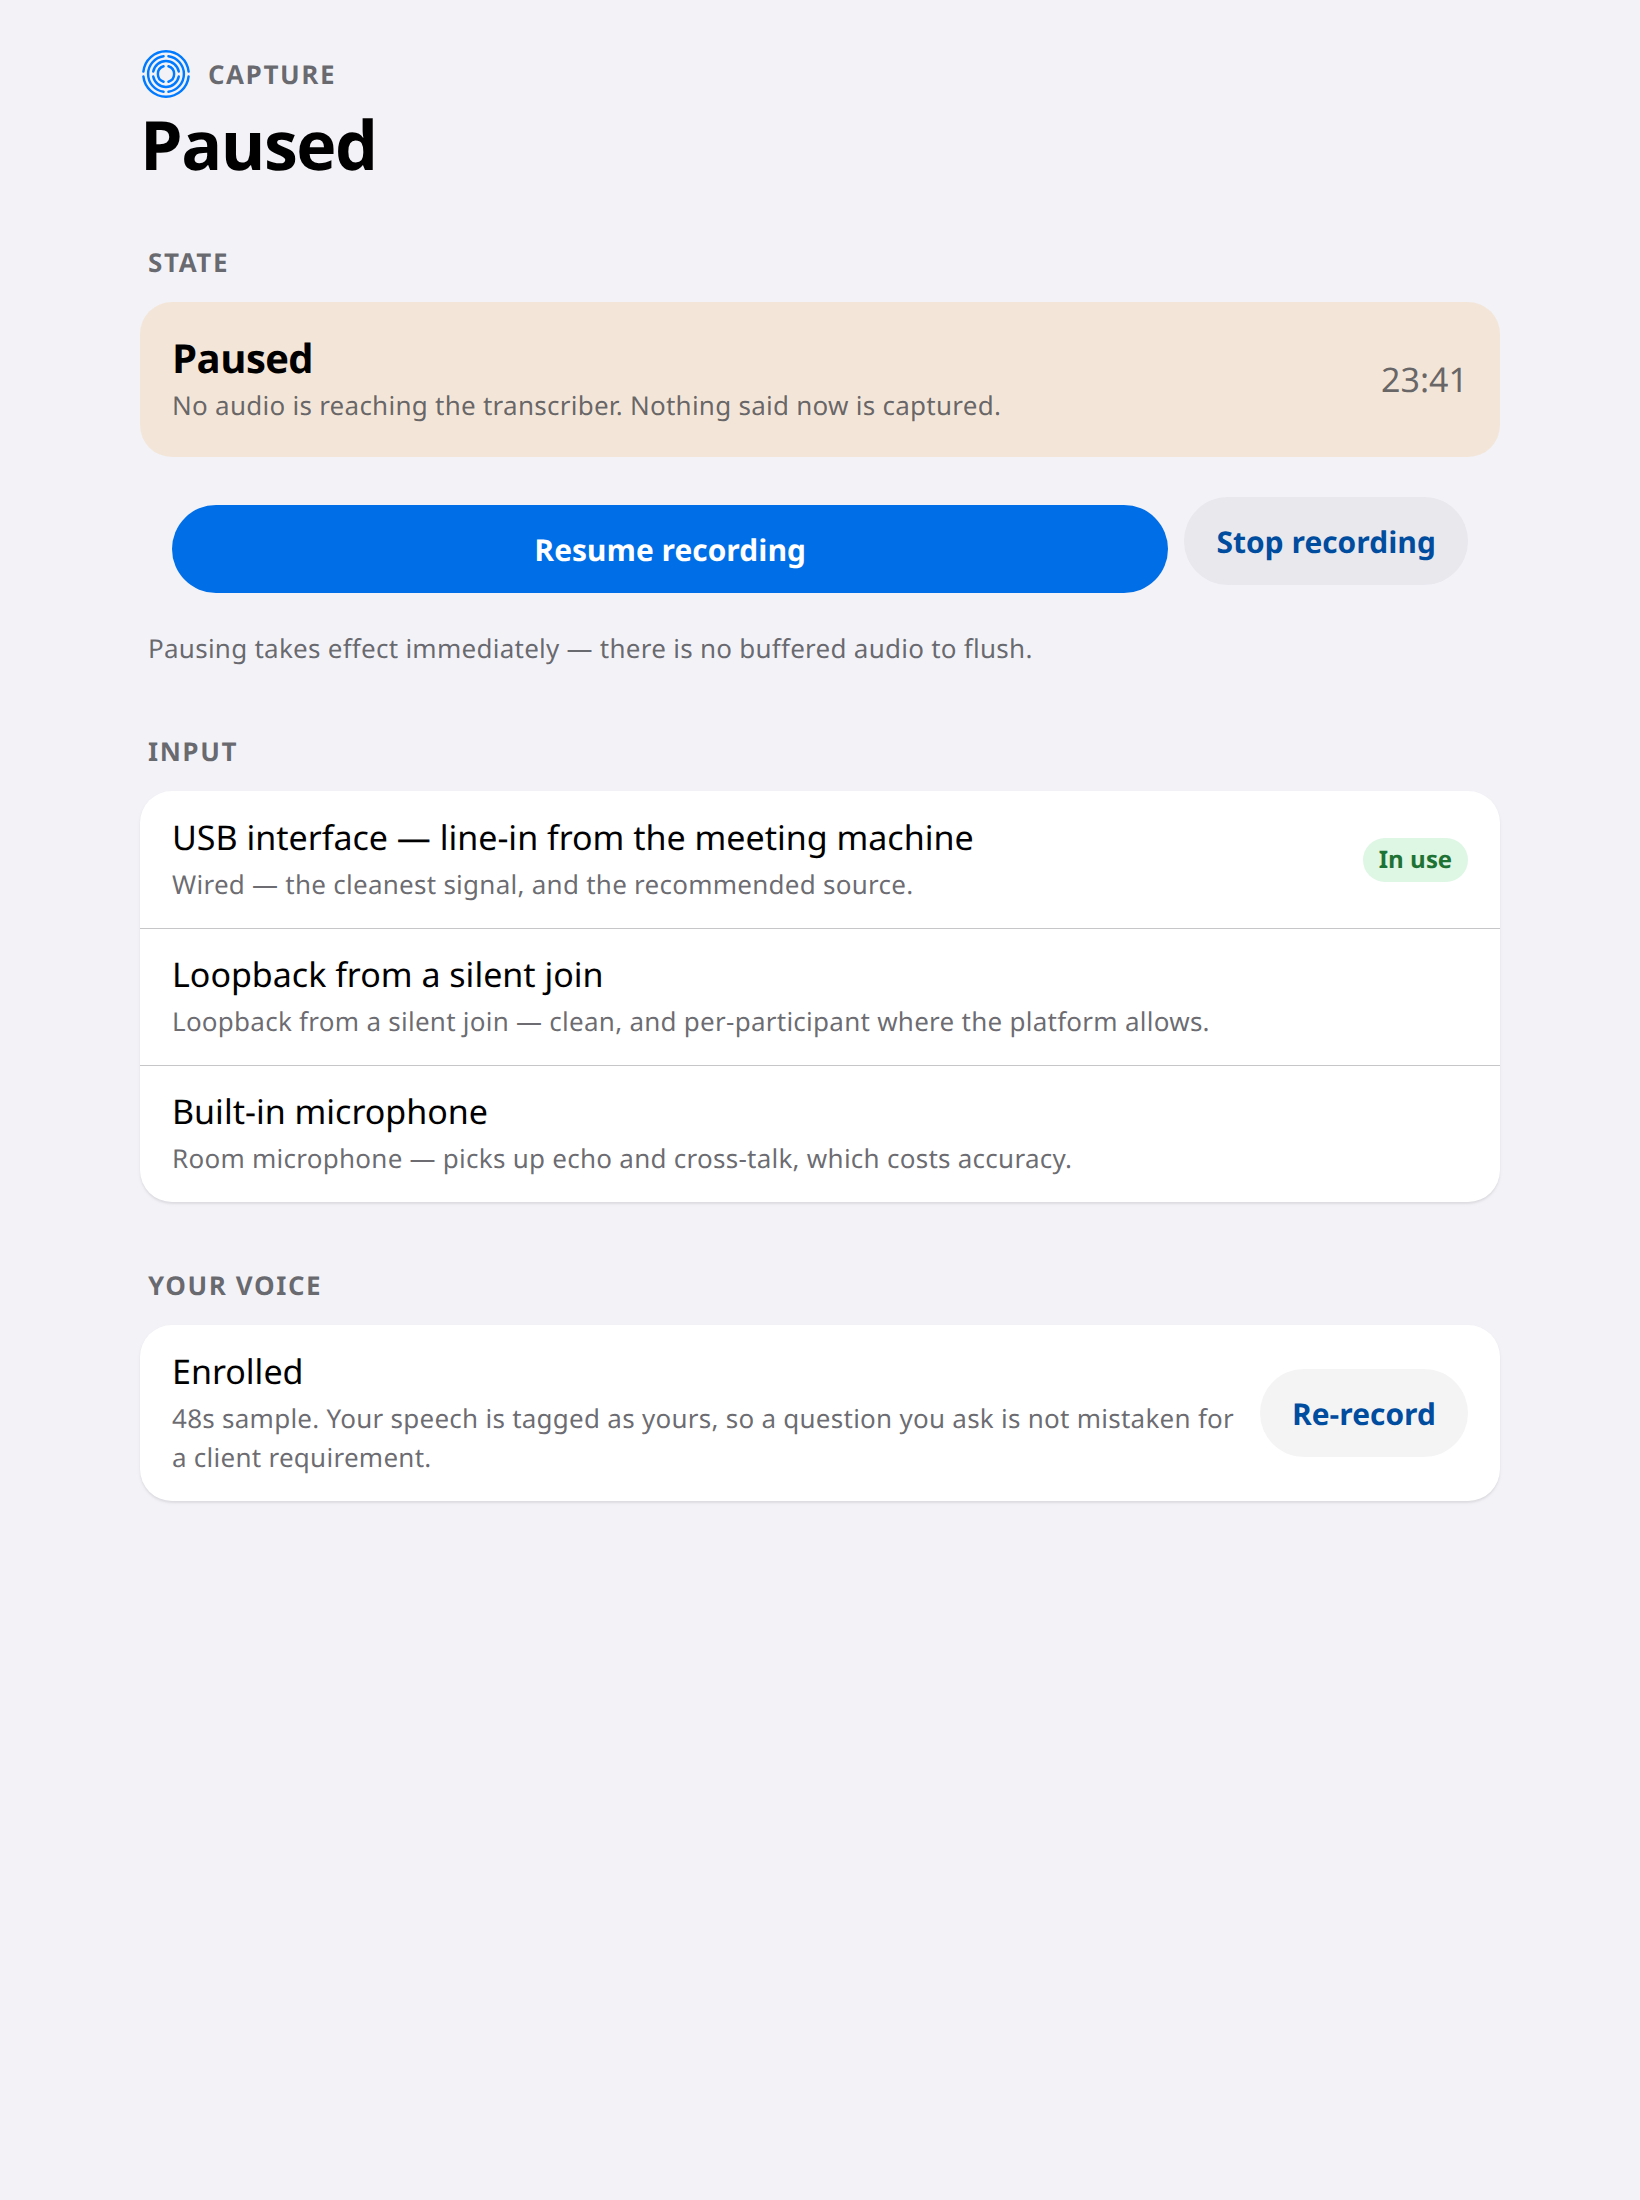
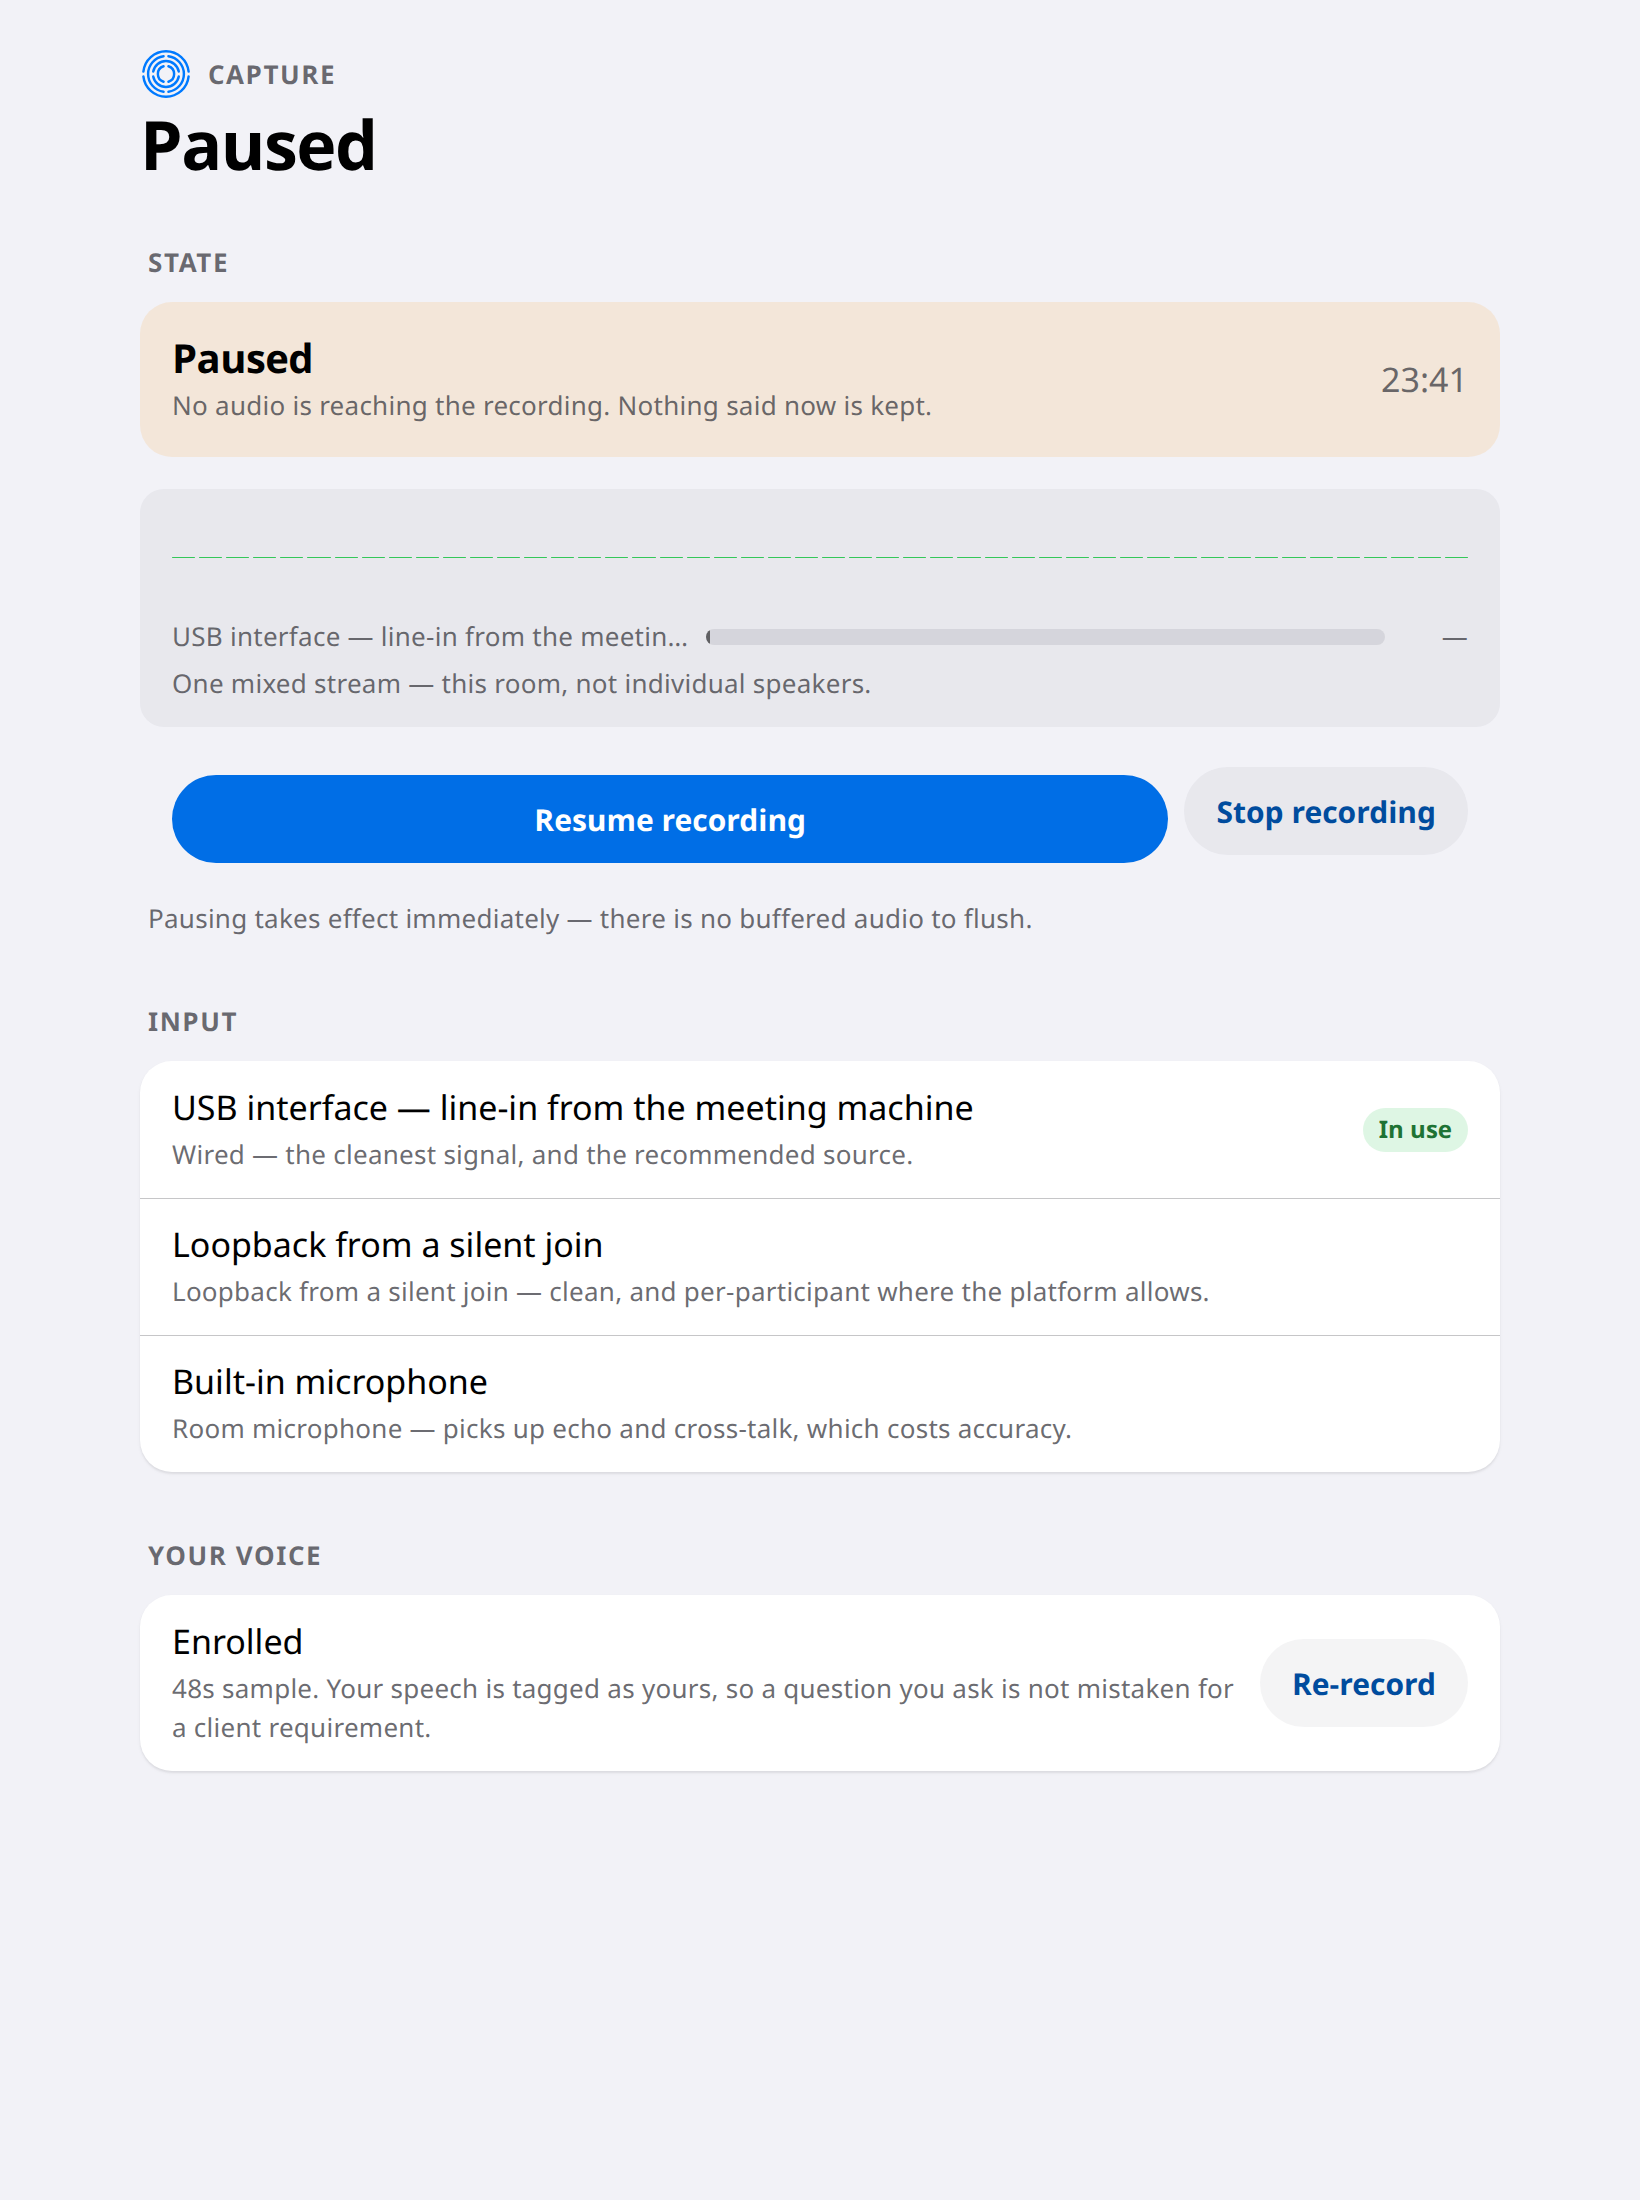
fix(capture): the recording screen stops claiming a live transcript
"Audio is being captured and transcribed" was half true for the length of
every meeting. Capture is real -- the chunks reach the service, and a live run
uploaded six of them in five seconds. Transcription is not: nothing turns
speech into text during a meeting here, and the words are produced afterwards
on the record path, from exactly the audio this screen uploaded.

An operator reading that line has been told a transcript exists while they are
in the room with the client, and would find out otherwise only by going to
look for one. The screen is the only place they learn what is being done with
their meeting, so a claim it cannot keep costs more than a quieter screen.

The paused line carried the same untruth from the other side -- "no audio is
reaching the transcriber" describes a live transcriber that is not there. The
half of it that was true, and the only reason to pause at all, is that nothing
said now is kept; that survives.

Both screenshots are regenerated from the running app, so the journey pages
and the handbook stop showing words the product no longer says. They were
already modified in the tree by other in-flight work; regenerating them
captures the current screen, which is what a generated screenshot is for.

The chapters that show these screens are now in drift, deliberately left for a
human to re-read and accept rather than baselined here.

diff --git a/apps/desktop/src/features/capture/__tests__/captureHonesty.test.tsx b/apps/desktop/src/features/capture/__tests__/captureHonesty.test.tsx
@@ -1,0 +1,42 @@
+import { render, screen } from '@testing-library/react';
+import { describe, expect, it } from 'vitest';
+
+import { CaptureScreen } from '../route';
+
+/**
+ * What the recording screen may claim is happening.
+ *
+ * The status line said "Audio is being captured and transcribed" for the
+ * length of every meeting, and half of that was not true: nothing transcribes
+ * during a meeting here. Speech becomes text on the record path afterwards,
+ * from the audio this screen uploads — so an operator watching the words go by
+ * was being told a live transcript existed, and would find out otherwise only
+ * when they went looking for one.
+ *
+ * The screen is the only place an operator learns what the product is doing
+ * with their meeting. A claim it cannot keep costs more than a quiet screen.
+ */
+describe('what the capture screen says is happening', () => {
+  it('does not claim speech is being transcribed while the meeting runs', () => {
+    render(<CaptureScreen state="capturing" sources={[]} elapsed="00:05" operatorEnrolled enrolmentSeconds={60} />);
+
+    const status = screen.getByText(/audio is being/i);
+
+    expect(status.textContent).not.toMatch(/transcrib/i);
+  });
+
+  it('says where the audio is going instead', () => {
+    render(<CaptureScreen state="capturing" sources={[]} elapsed="00:05" operatorEnrolled enrolmentSeconds={60} />);
+
+    expect(screen.getByText(/after the meeting/i)).toBeInTheDocument();
+  });
+
+  it('does not tell a paused operator that a transcriber exists to stop reaching', () => {
+    render(<CaptureScreen state="paused" sources={[]} elapsed="00:05" operatorEnrolled enrolmentSeconds={60} />);
+
+    expect(screen.queryByText(/transcriber/i)).not.toBeInTheDocument();
+    // The half that was true has to survive: pausing is only worth doing if
+    // what is said now is genuinely not kept.
+    expect(screen.getByText(/nothing said now/i)).toBeInTheDocument();
+  });
+});

diff --git a/apps/desktop/src/features/capture/route.tsx b/apps/desktop/src/features/capture/route.tsx
@@ -99,12 +99,16 @@ const STATE_COPY: Record<CaptureState, { word: string; detail: string; pill: str
   },
   capturing: {
     word: 'Recording',
-    detail: 'Audio is being captured and transcribed.',
+    // Not "and transcribed": nothing transcribes during a meeting here.
+    // The audio uploaded from this screen becomes a transcript on the
+    // record path afterwards, and an operator told otherwise would go
+    // looking for a live transcript that does not exist.
+    detail: 'Audio is being captured. It becomes a transcript after the meeting, not during it.',
     pill: 'pill pill--alert',
   },
   paused: {
     word: 'Paused',
-    detail: 'No audio is reaching the transcriber. Nothing said now is captured.',
+    detail: 'No audio is reaching the recording. Nothing said now is kept.',
     pill: 'pill pill--warn',
   },
   stopped: {

diff --git a/apps/desktop/src/journeys/__tests__/screens.test.tsx b/apps/desktop/src/journeys/__tests__/screens.test.tsx
@@ -209,7 +209,7 @@ describe('capture control', () => {
     render(<CaptureScreen {...PAUSED} />);
 
     expect(screen.getByRole('heading', { name: 'Paused' })).toBeInTheDocument();
-    expect(screen.getByText(/Nothing said now is captured/)).toBeInTheDocument();
+    expect(screen.getByText(/Nothing said now is kept/)).toBeInTheDocument();
   });
 
   it('offers resume when paused and pause when recording', () => {
